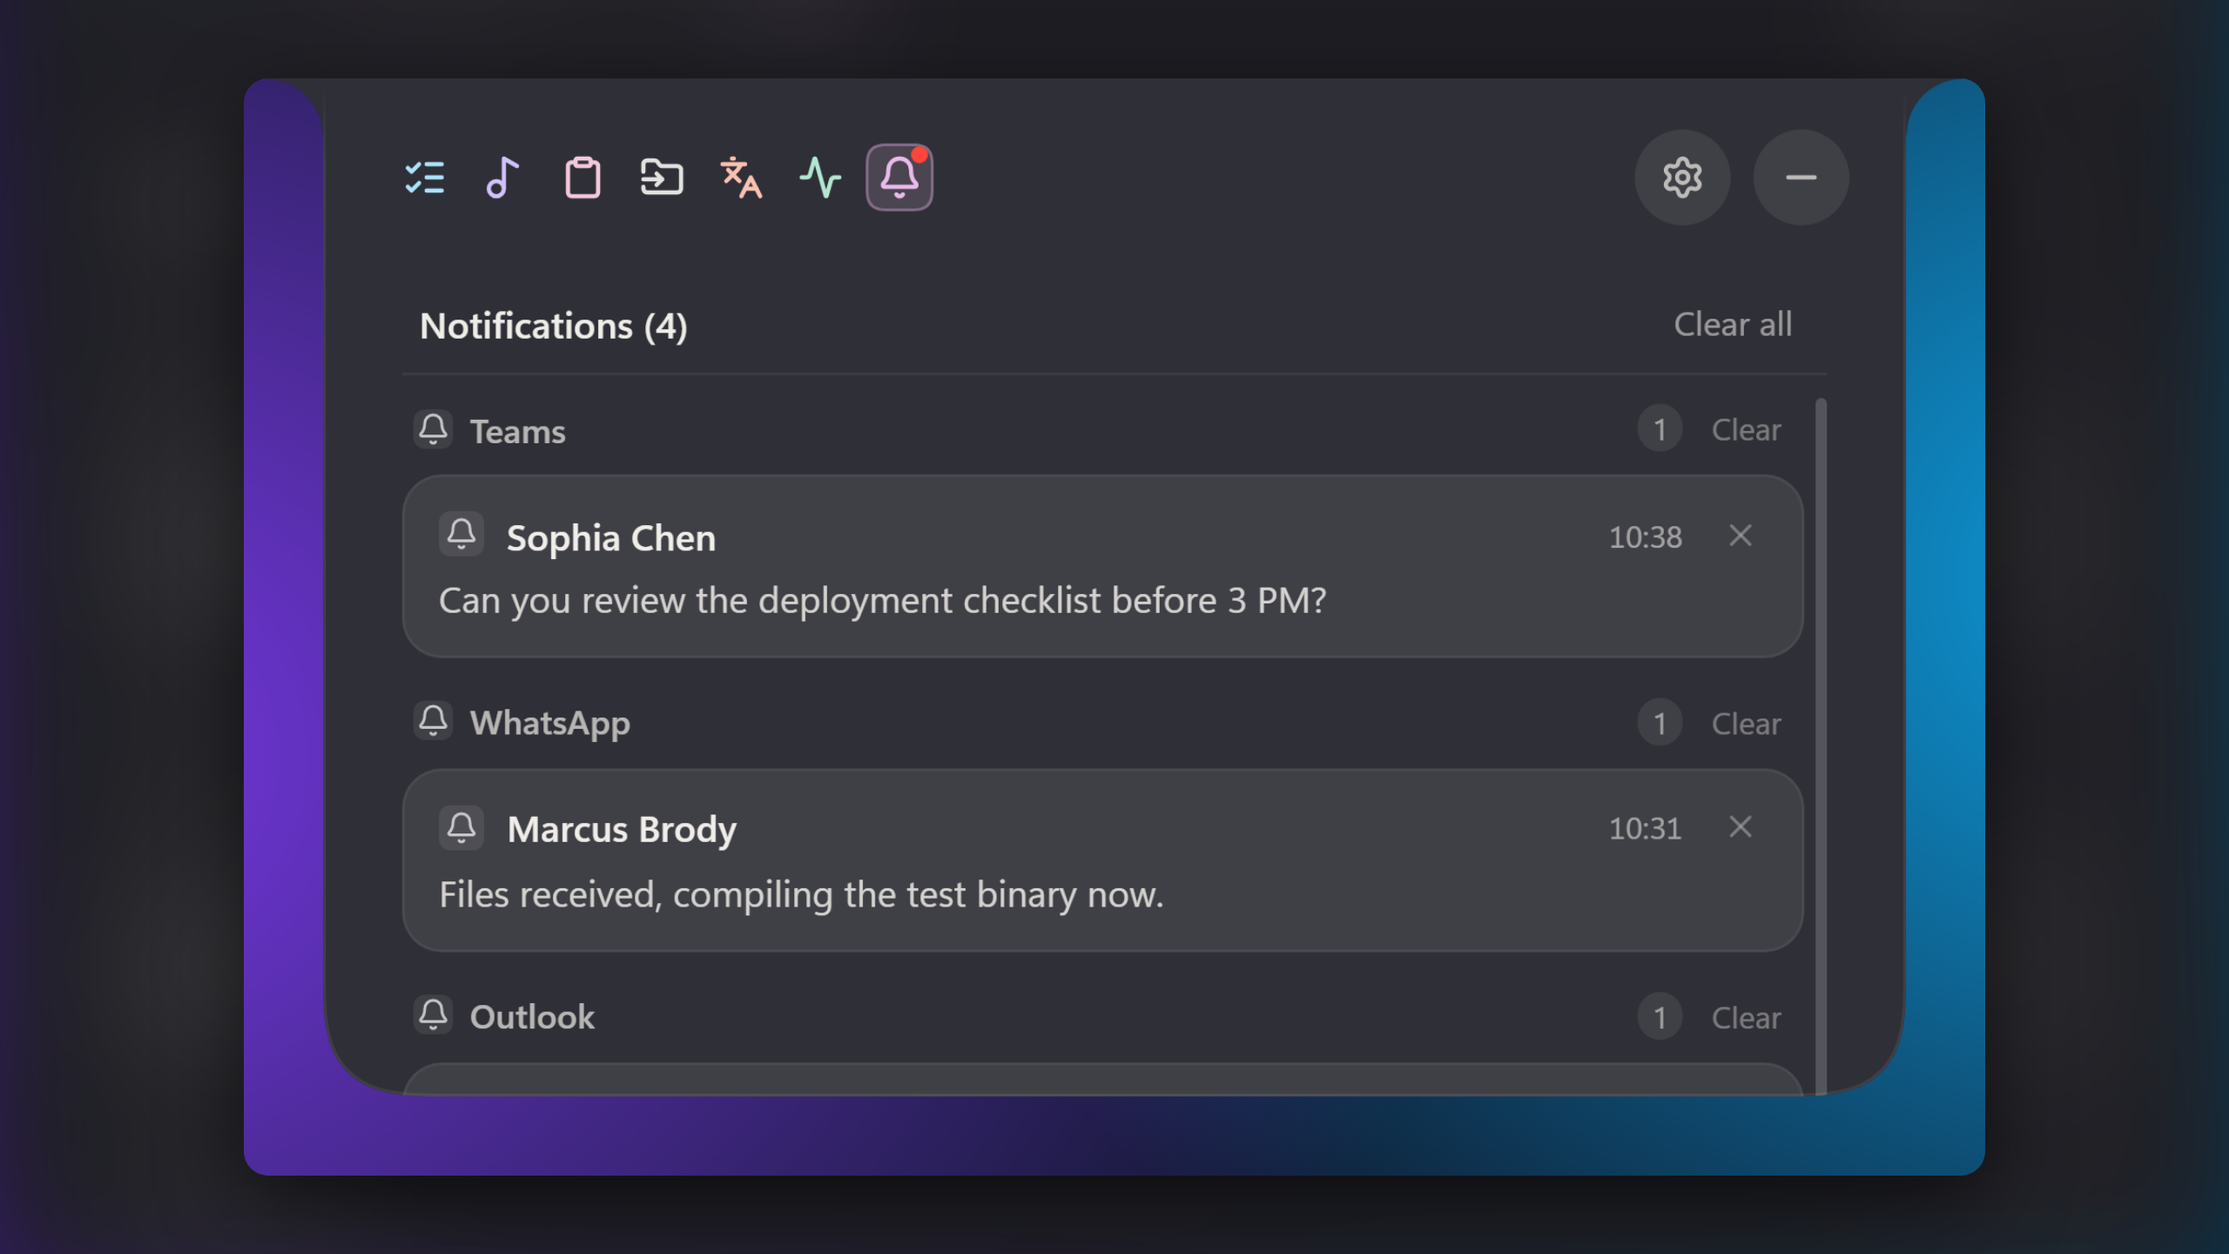
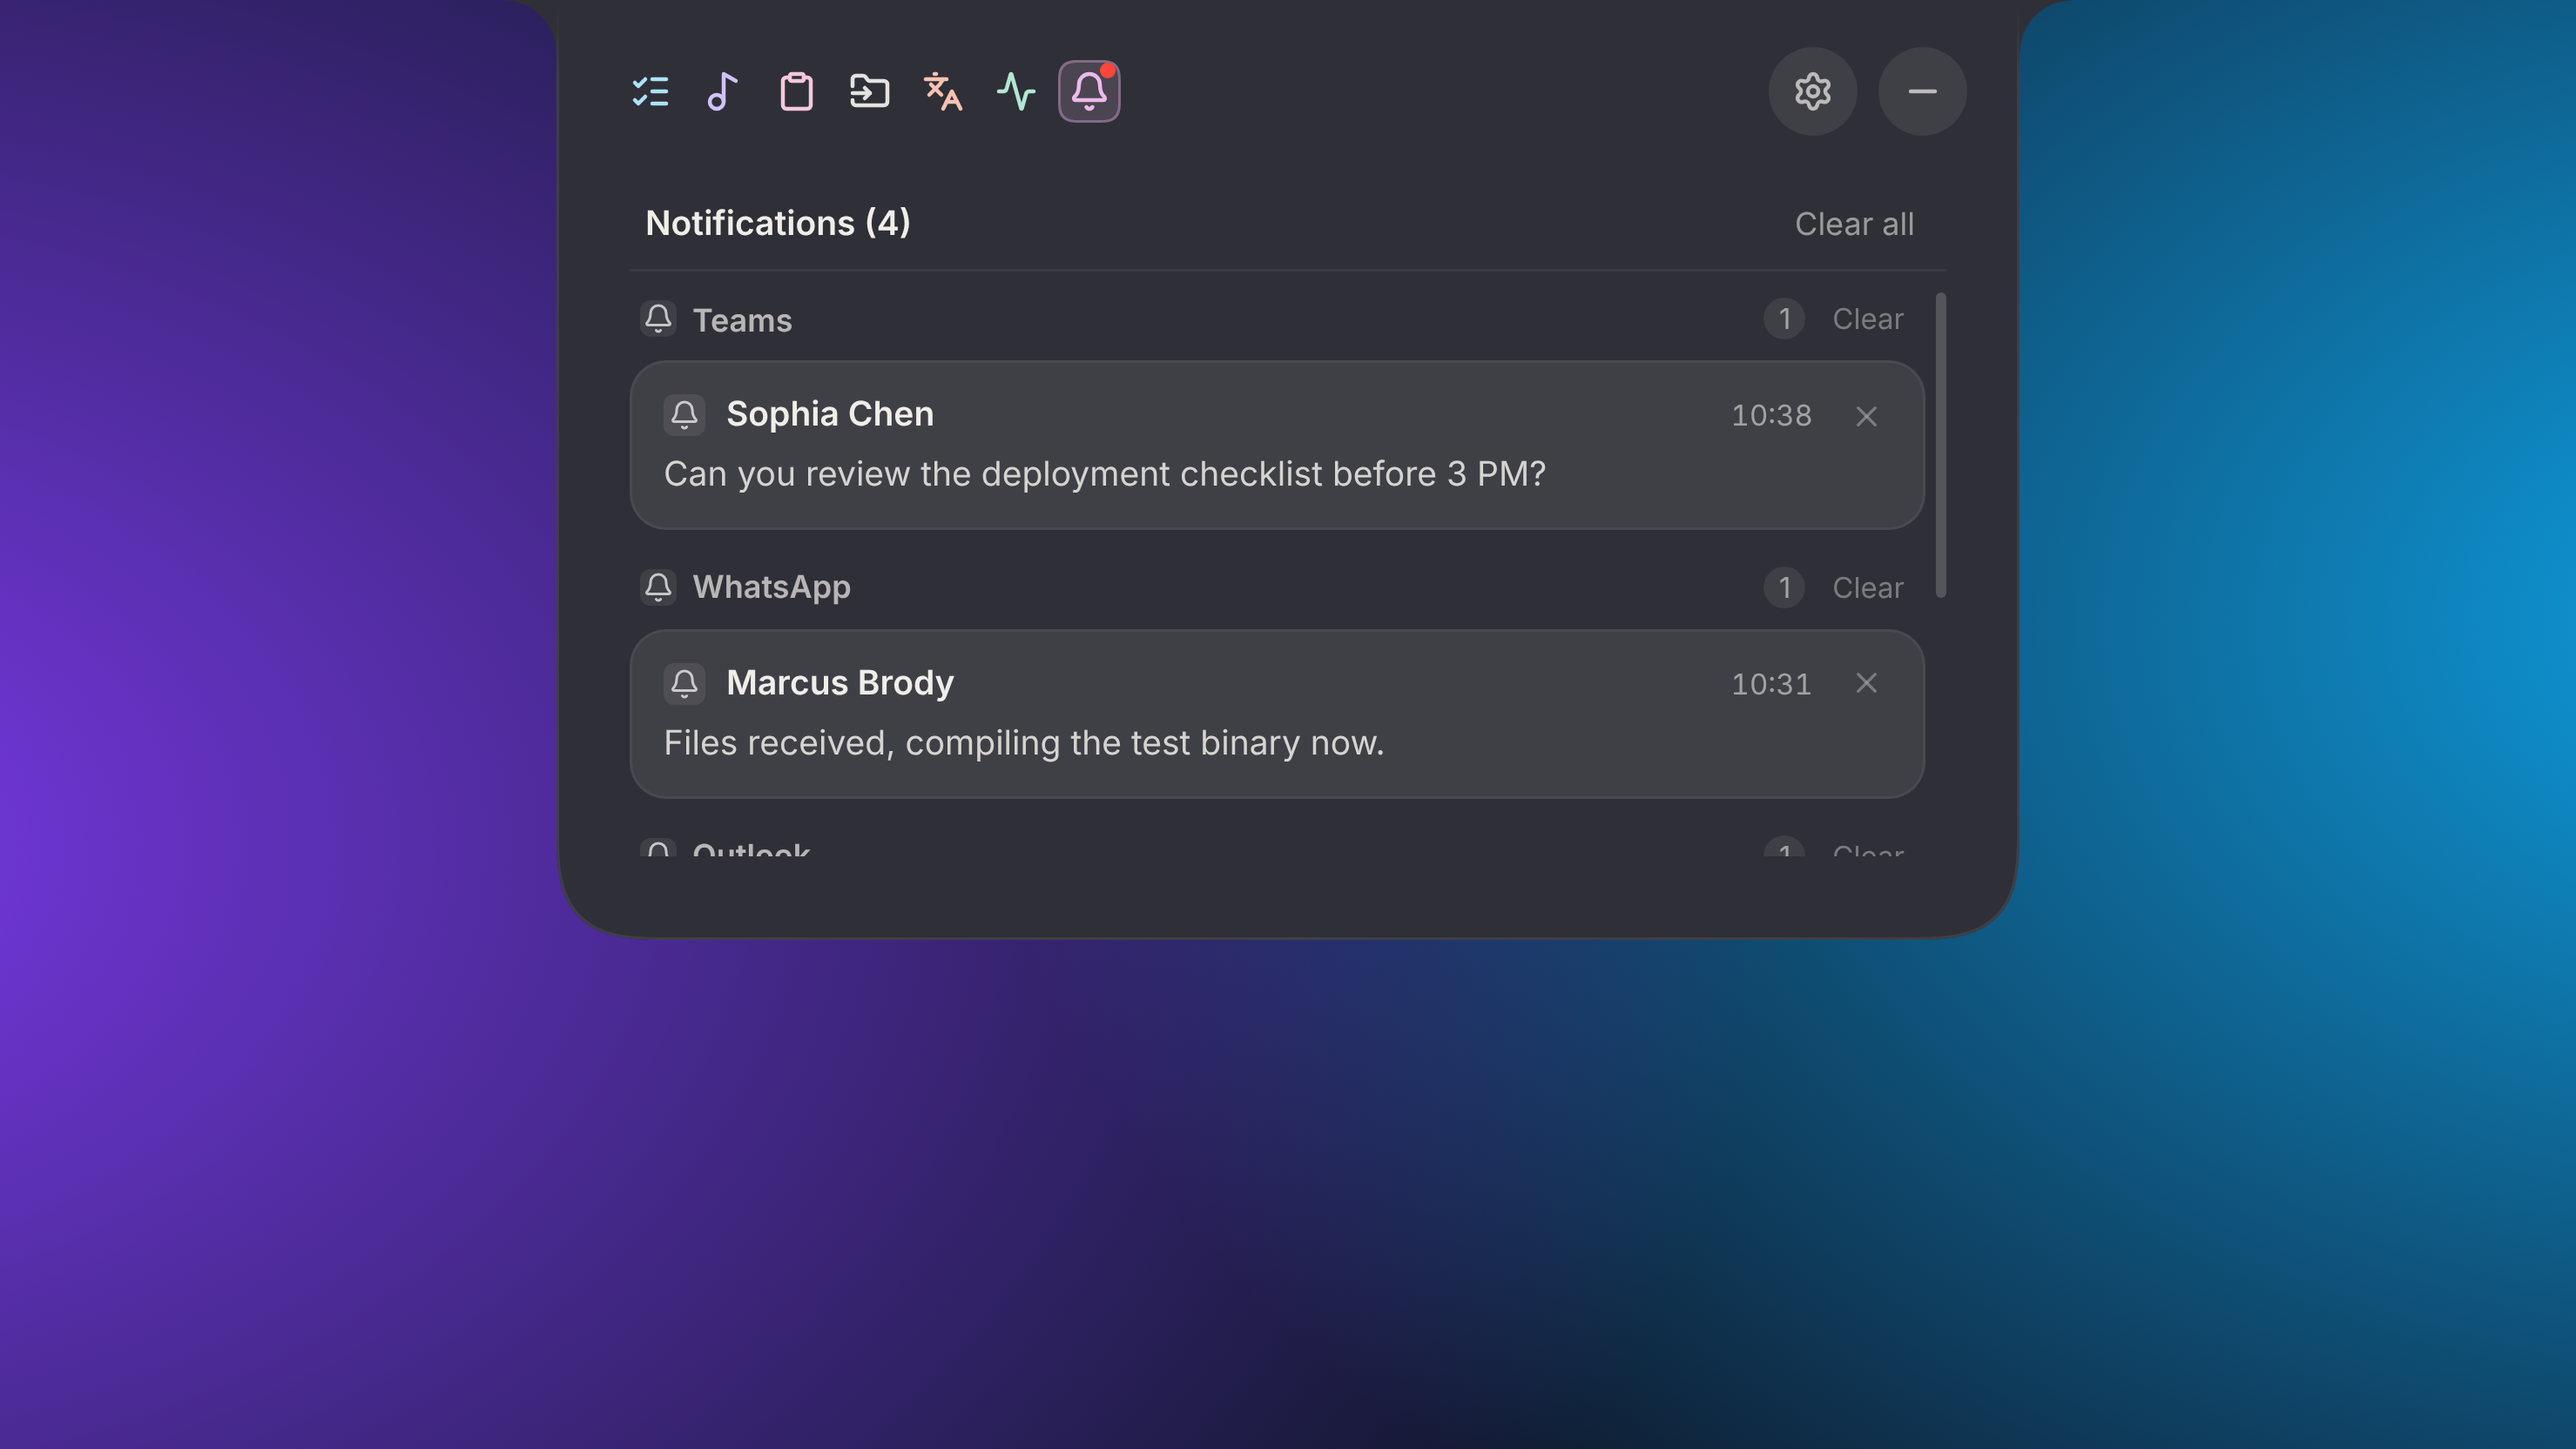
docs: capture every README screenshot at 16:9
The Microsoft Store gallery shows 16:9 pictures, so the wide strips and
the tall settings window were cropped there. Each shot is now a 16:9
area of the desktop around the island, and the themes comparison is
composed on a 16:9 canvas. The README shows the same files.

Claude-Session: https://claude.ai/code/session_01FtNw6qj8DhVM4oqMRPFxLZ

diff --git a/docs/SCREENSHOTS.md b/docs/SCREENSHOTS.md
@@ -19,7 +19,7 @@ pnpm screenshots --out=./out
 - `CHROME_PATH` picks the browser if Chrome or Edge is not in its usual place.
 - Run it on **Windows** to get Segoe UI like the installed app. Another system uses its own fallback font, which can change line breaks slightly.
 
-Every picture is put on one **2560×1440 (16:9)** canvas by `scripts/frame-screenshots.mjs`: the capture keeps its own pixels and the space around it is a blurred, darkened copy of the same picture. The Microsoft Store gallery shows 16:9 pictures, so a wide strip or a tall window would otherwise be cropped there. To frame pictures captured without it, run `node scripts/frame-screenshots.mjs --from=<folder>`; it reads the unframed PNGs from the folder and writes the framed ones over `docs/assets/screenshots/` (or `--out=<folder>`).
+Every picture is **16:9**, the shape of the Microsoft Store gallery, and the README shows the same files. Each shot is a 16:9 area of the desktop around the island: centred on it, with room on both sides and tall enough to hold all of it. The island stays on the top edge, as it does on a real desktop. The themes picture puts the three tight crops side by side on the desktop colour, also 16:9.
 
 The command starts this checkout's Vite server, opens each scene in a headless browser, waits for the scene to report that it is ready, and crops the picture on whole pixels. The desktop colour behind the island gives the glass materials something to blur. Only the screenshot scenes (`tests/screenshots/`) use mocked data; the app code is unchanged.
 
